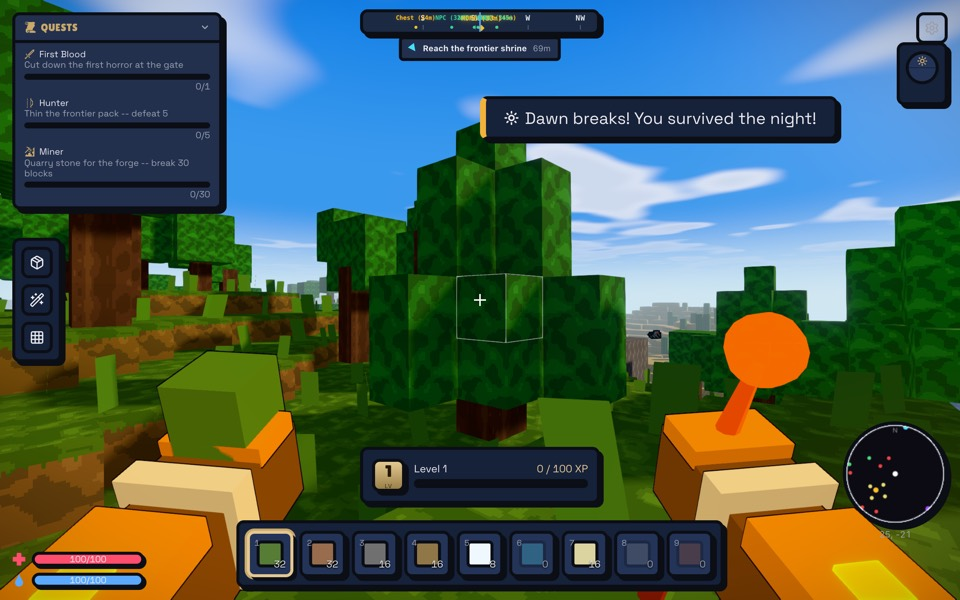
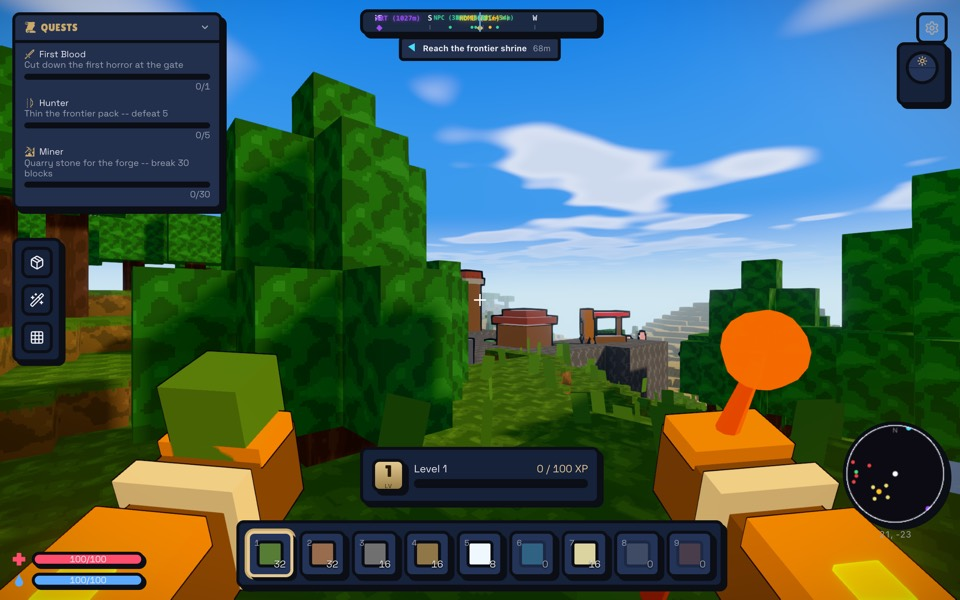
docs(w2d): DECISIONS 99, the flat HUD and its measured footprint; PR A's frames re-shot like for like with the held-page instrument
Shot with scripts/visual/lookbook.mjs (eye and hud sets) on production builds, real GPU (Chromium on ANGLE Metal; WebKit
on its ANGLE-Metal path), M3 Max, 23:20-23:27Z: before is main 63fe4035, after is this branch at 0719ff98 plus the
flattening (the build of the previous commit). JPG at 960 px, each opened before it was committed:
a-*-chromium-afternoon (0.30, heading 120: the rail, the level card and the open quest panel, then the flat HUD; the
footprint 22.13% before, 6.68% after); a-*-webkit820-afternoon (iPad portrait: the vitals on the hotbar before, at the
top left after; 11.87% before, 7.69% after); a-after-webkit1180-afternoon (7.68%); a-*-compass-cluster (HOME and the
Hearth NPCs: overprinted labels before, HOME labelled and the NPCs yielding after); a-*-dusk-zh (zh-CN at dusk from
the eye set's stand: the English warning over the dial before, now over a world; the Chinese dawn and dusk notices
below the dial after). DECISIONS 99 records the cuts and the numbers; the task script's decision 3 points to it.

diff --git a/docs/superpowers/DECISIONS.md b/docs/superpowers/DECISIONS.md
@@ -85,6 +85,17 @@ items. Each stands while it earns its place.
    colour (`tests/gates/lookbook-chrome-gates.test.js`: a warm stone world with no chrome reads 0, a 10% panel reads 10%
    on either ladder, a panel at alpha 0.6 still counts, the scrim is its own class). **Blind spot:** an opaque surface
    over a world pixel of its own colour, within 2, reads as unchanged.
+99. **The HUD at rest is flat and smaller, because the footprint said where the screen went.** With the slim hotbar
+   the footprint read 9.91% of a Chromium 1280x800 frame at rest and 10.21% of WebKit 820x1180, over the budget, and
+   gave each surface its share: the hotbar 3.4%, the minimap 1.6%, the compass 1.3%, the quest line 1.3%, the vitals
+   0.7%, the dial 0.6%, the objective line 0.6%, the XP edge 0.4%. So the hotbar is nine slots with nothing behind them
+   (40 px on a keyboard, 48 px on touch, where each is a tap target); the HUD's own surfaces at rest drop the hard offset
+   shadow the panels keep (the quest line, the compass, the minimap, the dial, the coin count); the minimap is 112 px
+   (was 132), the compass 288 px (was 320), the dial's ring 36 px (was 44), the quest line at most 280 px on a keyboard
+   (was 320). **Measured after** (lookbook eye set, every valid frame at rest, real GPU, 2026-10-29 23:22Z): Chromium
+   1280x800 at most 6.69%, WebKit 1180x820 7.69%, WebKit 820x1180 7.69%; main before this lane read 22.14% and 11.87%
+   at 1280x800 and 820x1180. **Why:** the brief's acceptance is the share of the screen at rest; the hard shadow is the
+   panels' elevation, and a HUD that sits on the world reads as one plane without it.
 
 ## 2026-10-29 — [LOOP] W2-E follow: the beast in first person, the cast, mobs that sense the body, the hands by the fire
 

diff --git a/docs/superpowers/plans/2026-10-29-crafty-w2d-hud.md b/docs/superpowers/plans/2026-10-29-crafty-w2d-hud.md
@@ -58,7 +58,8 @@ colour; A changes no save field and no key.
    no click or hover reaches it, so the list is the quest log's (L; the Journal on J after PR B). A completed quest's
    claim button stays in the line until PR B makes claims automatic. On touch the vitals sit at the top left (the
    joystick and the action buttons hold both bottom corners) and the coin count under the minimap (Pause holds its
-   desktop place).
+   desktop place). The HUD at rest is flat (no offset shadow) and the hotbar is slots alone, sized from the footprint's
+   breakdown (DECISIONS item 99).
 4. **The compass is a component.** `ui/compassLayout.js` (pure) takes markers by bearing, the heading, the field of view
    and the strip width, maps each to x, clamps a label inside the strip and places labels in priority order (boss, home,
    shrine, Blight Heart, NPC, chest, then the eight cardinals); a later label whose box would overlap a placed one within
